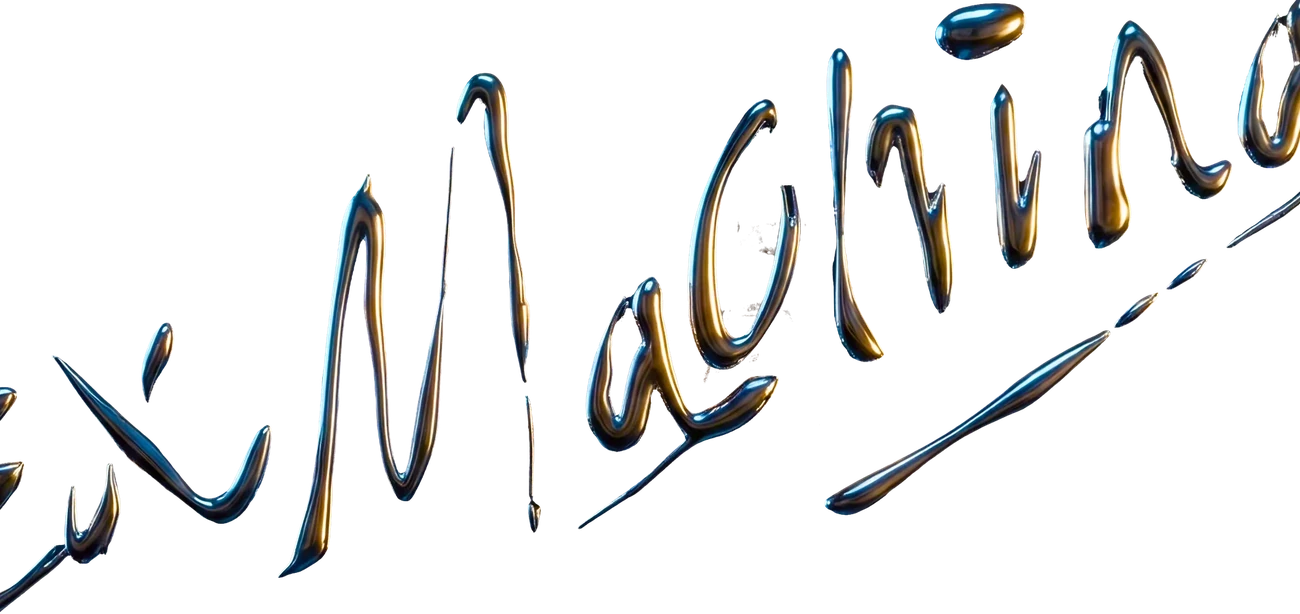
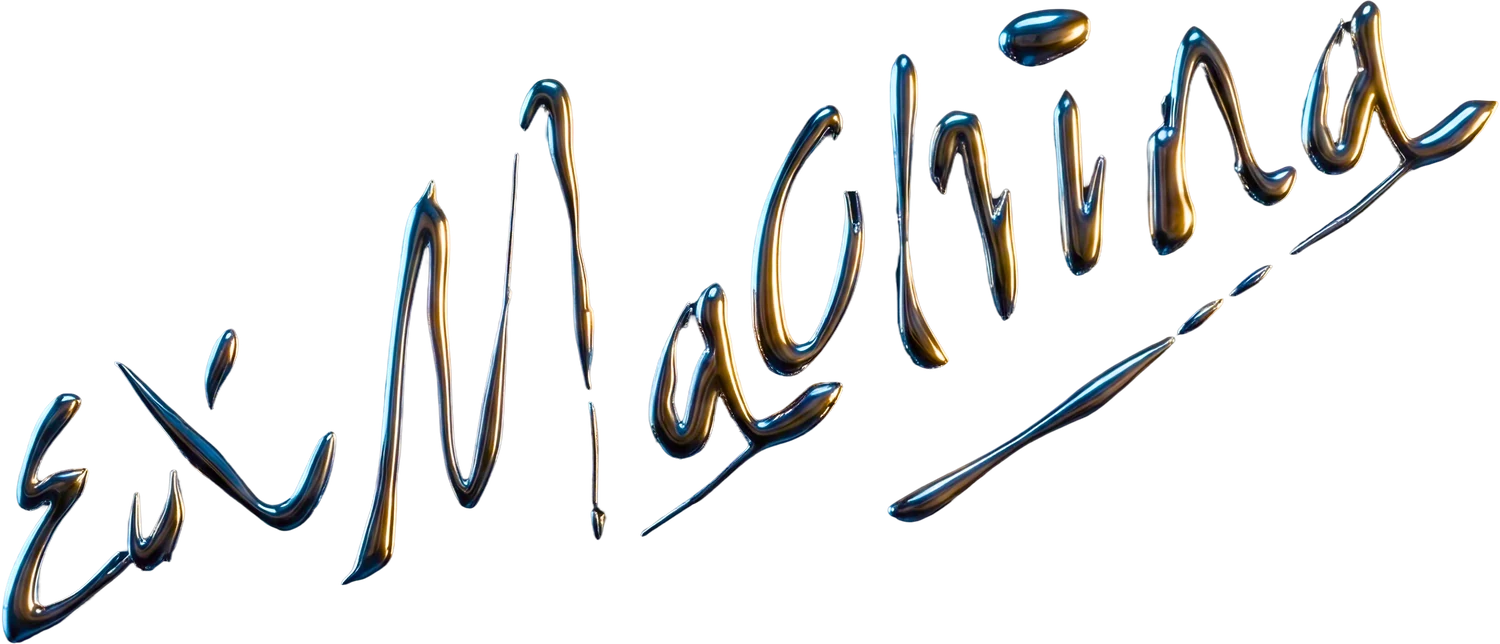
Wordmark completo, transicion de vuelta a la disolvencia, y el marquee arreglado
1. EX MACHINA completo. El PNG estaba en Downloads todo el tiempo; lo descarte en
   mi busqueda porque el nombre habla de una firma naranja en pintura 3D, y juzgue
   por el nombre en vez de abrirlo. Es el wordmark entero, con aire por los cuatro
   lados. Ahora la capa lleva padding en vez de sangrar: contain lo mete completo y
   el inset deja sus extremos libres del borde. Medido a 390px: 18-372 de 390. A
   1440px: 57.6-1382.4. Nada cortado.

2. Vuelve la disolvencia de siempre entre fotos. La cortina que meti no la pidio
   nadie.

3. El marquee de clientes se desarmaba en movil: una regla mia le ponia
   flex-wrap:wrap, y como la pista lleva una pasada duplicada para el bucle, las 40
   piezas se apilaban en dos columnas — pantallas enteras de los mismos cuatro
   logos. Es lo que grabo Ceci. Fuera esa regla: una sola fila animada, siempre.
   Y las copias ahora se calculan por ancho de pantalla en vez de estar fijas en 20
   por pasada: 8 piezas en movil, 24 en escritorio, en lugar de 40 en ambos.

diff --git a/css/styles.css b/css/styles.css
@@ -290,18 +290,14 @@ ul,ol{list-style:none}
 /* Crossfade: the outgoing frame keeps drifting while the incoming one settles, so
    the change never reads as a cut. will-change is set only on the two slides in
    play — pinning all four costs real memory on phones and causes the stutter. */
-/* A wipe, not a dissolve. Two opaque photographs cross-faded on opacity spend half
-   a second at 50/50, and with portraits that reads as a double exposure — muddy,
-   like a mistake. The incoming frame is revealed by an expanding clip instead, so
-   at every instant one photograph is on screen, whole. */
+/* Crossfade: the outgoing frame keeps drifting while the incoming one settles, so
+   the change never reads as a cut. will-change is set only on the two slides in
+   play — pinning all four costs real memory on phones and causes the stutter. */
 .hero-slide{position:absolute;inset:0;opacity:0;pointer-events:none;
-  clip-path:inset(0 0 0 100%);
-  transition:opacity .28s linear,clip-path .95s cubic-bezier(.62,.02,.2,1)}
-.hero-slide.is-active,.hero-slide.is-leaving{will-change:clip-path}
-/* the incoming frame is opaque from the first instant and the clip does the work */
-.hero-slide.is-active{opacity:1;z-index:2;clip-path:inset(0)}
-/* the outgoing one stays whole underneath until it is completely covered */
-.hero-slide.is-leaving{z-index:1;opacity:1;clip-path:inset(0);transition:none}
+  transition:opacity .95s cubic-bezier(.33,0,.15,1)}
+.hero-slide.is-active,.hero-slide.is-leaving{will-change:opacity}
+.hero-slide.is-active{opacity:1;z-index:2}
+.hero-slide.is-leaving{z-index:1}
 /* parallax lives on the wrapper, ken burns on the image: two transforms that
    would otherwise overwrite each other */
 /* no CSS transition here on purpose: the JS lerp already smooths the drift, and
@@ -318,9 +314,12 @@ ul,ol{list-style:none}
    erase the baked-in wordmark, and that patch was poor: smears and blocks over an
    eye. Any drift dragged the mess into view. The photographs are clean now, so
    there is nothing underneath to uncover and the layer can move freely. */
-.hero-letter{position:absolute;inset:0;z-index:4;pointer-events:none;overflow:hidden}
+/* The wordmark is the complete artwork now, not the crop that was baked into the
+   old photographs — so it gets padding instead of bleed: contain fits it whole and
+   the inset keeps its ends clear of the edges. Nothing of EX MACHINA is cut. */
+.hero-letter{position:absolute;inset:clamp(18px,4vw,64px);z-index:4;pointer-events:none}
 .hero-letter picture{display:block;width:100%;height:100%;
-  transform:translate3d(var(--lx,0px),var(--ly,0px),0) scale(1.02)}
+  transform:translate3d(var(--lx,0px),var(--ly,0px),0)}
 .hero-letter img{width:100%;height:100%;object-fit:contain;object-position:center 48%;
   filter:drop-shadow(0 10px 30px rgba(0,0,0,.34))}
 
@@ -649,7 +648,7 @@ html.js.anim-ready [data-reveal],html.js.anim-ready [data-reveal-group]>*,html.j
   .hero{height:100svh;min-height:560px}
   .hero-slide picture{transform:translate3d(var(--px,0px),var(--py,0px),0) scale(1.03)}
   .hero-slide img{object-fit:cover;object-position:center 42%}
-  .hero-letter picture{transform:translate3d(var(--lx,0px),var(--ly,0px),0) scale(1)}
+  .hero-letter picture{transform:translate3d(var(--lx,0px),var(--ly,0px),0)}
   .hero-slide img{object-position:center 50%;transform:none}
   .hero-slide.is-active img{animation:none}
   .hero-dots{bottom:calc(104px + env(safe-area-inset-bottom))}
@@ -662,11 +661,14 @@ html.js.anim-ready [data-reveal],html.js.anim-ready [data-reveal-group]>*,html.j
 /* ---------- REDUCED MOTION ---------- */
 @media (prefers-reduced-motion:reduce){
   html{scroll-behavior:auto}
-  .marquee-track{animation:none;flex-wrap:wrap;width:auto}
+  /* NO flex-wrap here. It turned the carousel into a two-column grid, and since the
+     track carries a duplicated pass for the seamless loop, every copy rendered as a
+     stacked list — screens of the same four logos. It stays one animated row. */
+  .mq-item{width:clamp(150px,42vw,200px)}
   /* keep the dissolve and the progress bar — drop only the movement */
   .hero-slide.is-active img{animation:none;transform:none}
   .hero-slide picture{transform:none}
-  .hero-slide{transition:opacity .28s linear,clip-path .7s cubic-bezier(.62,.02,.2,1)}
+  .hero-slide{transition:opacity .6s ease}
   .loader{animation-delay:.4s}
   .loader-plus{animation:none}
   [data-ilum] .w{opacity:1 !important}

diff --git a/js/main.js b/js/main.js
@@ -238,9 +238,16 @@
   ];
   const track = document.getElementById('mqtrack');
   if (track) {
+    // Only as many copies as it takes to cover the screen, then that pass is
+    // duplicated once for the seamless -50% loop. It used to hard-code 20 per pass,
+    // which with four logos meant each one appearing ten times — it stopped reading
+    // as a carousel of clients and started reading as a list.
+    const ancho = 200 + 24;                                   // item + gap, worst case
+    const porPasada = Math.max(LOGOS.length,
+      Math.ceil((window.innerWidth * 1.25) / ancho / LOGOS.length) * LOGOS.length);
     let html = '';
     for (let rep = 0; rep < 2; rep++) {         // duplicated track for seamless -50% loop
-      for (let i = 0; i < 20; i++) {            // 20 logos per pass
+      for (let i = 0; i < porPasada; i++) {
         const [img, name] = LOGOS[i % LOGOS.length];
         html += `<div class="mq-item"${rep ? ' aria-hidden="true"' : ''}><img src="img/${img}.webp" alt="${rep ? '' : name}" loading="lazy" width="300" height="135"></div>`;
       }

diff --git a/index.html b/index.html
@@ -17,7 +17,7 @@
 <link rel="preload" href="fonts/NTDapperTrial-Regular.woff2" as="font" type="font/woff2" crossorigin>
 <link rel="preload" href="fonts/Jabin-BoldSwash2.woff2" as="font" type="font/woff2" crossorigin>
 <link rel="preload" href="fonts/OONeurealTrial-SemiMono.woff2" as="font" type="font/woff2" crossorigin>
-<link rel="stylesheet" href="css/styles.css?v=64">
+<link rel="stylesheet" href="css/styles.css?v=65">
 </head>
 <body>
 
@@ -412,6 +412,6 @@
 <script src="vendor/gsap.min.js" defer></script>
 <script src="vendor/ScrollTrigger.min.js" defer></script>
 <script src="vendor/lenis.min.js" defer></script>
-<script src="js/main.js?v=64" defer></script>
+<script src="js/main.js?v=65" defer></script>
 </body>
 </html>
